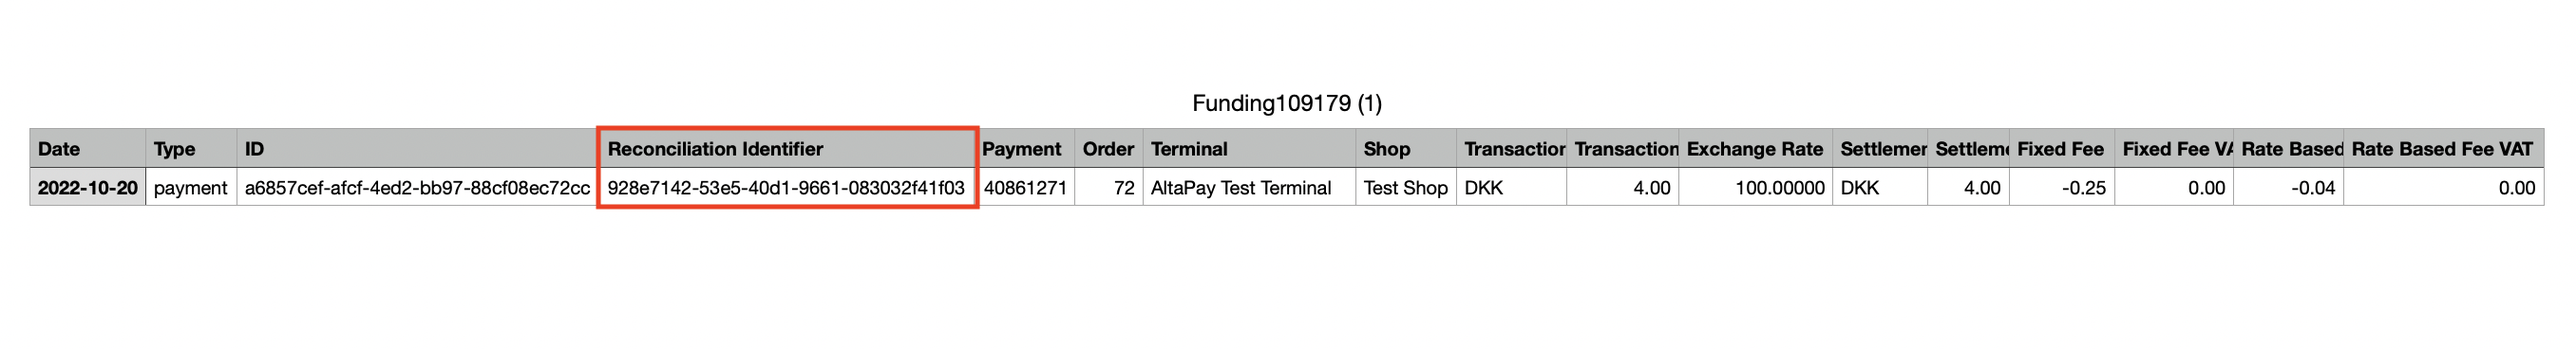
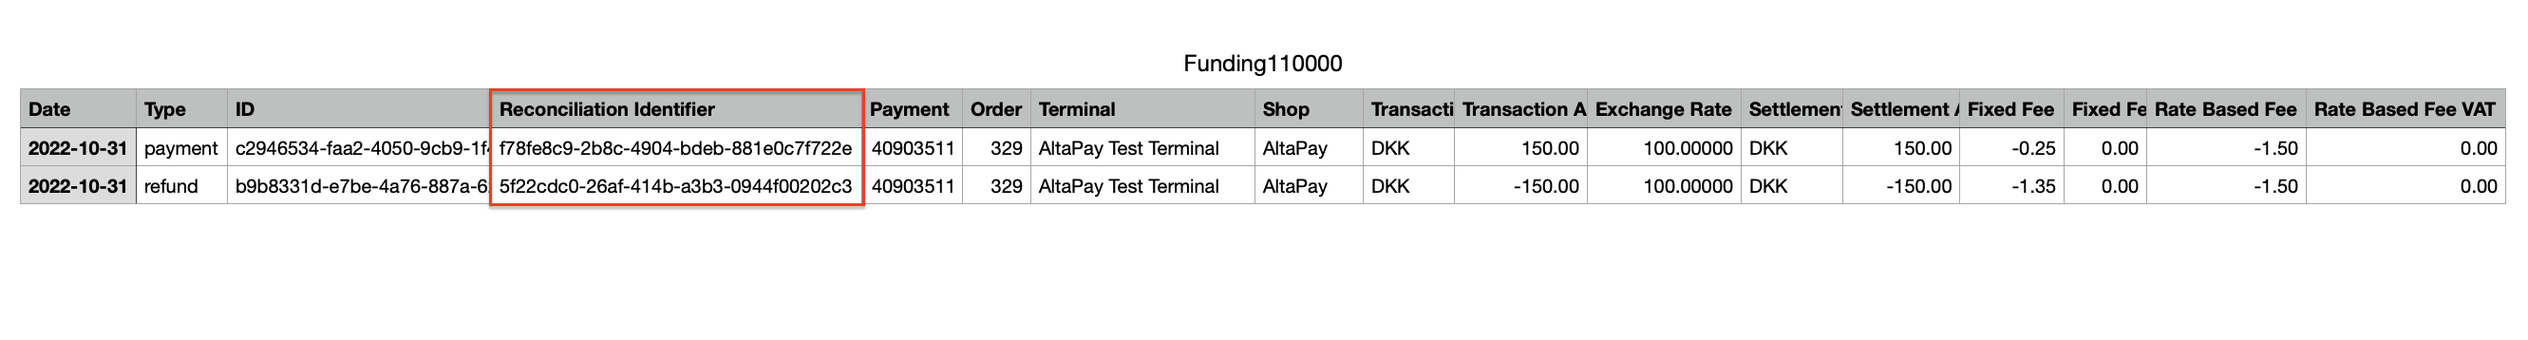
Update reconciliation metabox

Changed region(s): [[0.0, 0.2458, 0.9977, 0.6145], [0.4677, 0.1536, 0.5301, 0.2151]]

diff --git a/altapay.php b/altapay.php
@@ -172,10 +172,10 @@ function altapayAddMetaBoxes() {
 		
 		add_meta_box(
 			'altapay-order-reconciliation-identifier',
-			__('Reconciliation Identifier', 'altapay'),
+			__( 'Reconciliation Details', 'altapay' ),
 			'altapay_order_reconciliation_identifier_meta_box',
 			'shop_order',
-			'side'
+			'normal'
 		);
 	}
 
@@ -290,26 +290,45 @@ function altapay_order_reconciliation_identifier_meta_box( $post ) {
 		return;
 	}
 
+    $postID = $post->ID;
+
+    if ( $post->post_type === 'altapay_captures' ) {
+        $postID = wp_get_post_parent_id( $postID );
+    }
+
 	$auth = $settings->getAuth();
 
-	$order = new WC_Order( $post->ID );
+	$order = new WC_Order( $postID );
 	$txnID = $order->get_transaction_id();
 
 	if ( $txnID ) {
 		$api = new Payments( $auth );
 		$api->setTransaction( $txnID );
 		$payments = $api->call();
-
-		echo '<ul>';
-		foreach ( $payments as $payment ) {
-			foreach ( $payment->ReconciliationIdentifiers as $identifier ) {
-				echo '<li><p><strong>';
-				echo $identifier->Type === 'captured' ? 'Capture' : 'Refund';
-				echo ' Reconciliation Id : ';
-				echo '</strong>' . $identifier->Id . '</p></li>';
-			}
-		}
-		echo '</ul>';
+		?>
+		<table width="100%" cellspacing="0" cellpadding="10">
+           <thead>
+           <tr>
+               <th align="left" width="40%">Reconciliation Identifier</th>
+               <th align="left" width="60%">Type</th>
+           </tr>
+           </thead>
+            <tbody>
+                <?php
+                foreach ( $payments as $payment ) {
+                    foreach ( $payment->ReconciliationIdentifiers as $identifier ) {
+                        ?>
+                        <tr>
+                            <td><?php echo $identifier->Id; ?></td>
+                            <td><?php echo $identifier->Type; ?></td>
+                        </tr>
+                        <?php
+                    }
+                }
+                ?>
+            </tbody>
+		</table>
+		<?php
 	}
 }
 

diff --git a/wiki.md b/wiki.md
@@ -157,7 +157,7 @@ In order to reconcile payments please follow the steps below:
 
 1. From the admin panel, navigate to: **WooCommerce > Orders**
 2. Select the order you want to view.
-3. Copy the Reconciliation Identifier from the **Reconciliation Identifier** section on the right side.
+3. Copy the Reconciliation Identifier from the **Reconciliation Details** section.
 
    ![magento_order_view](docs/altapay_wp_order_reconcile_view.jpg)
 
